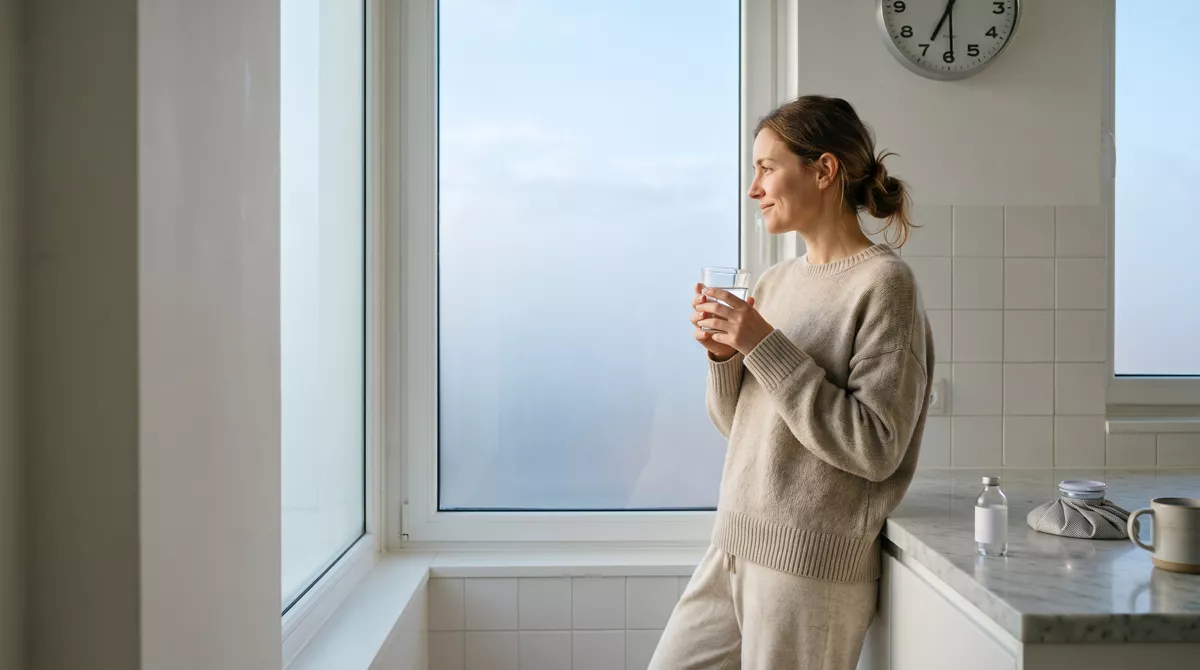
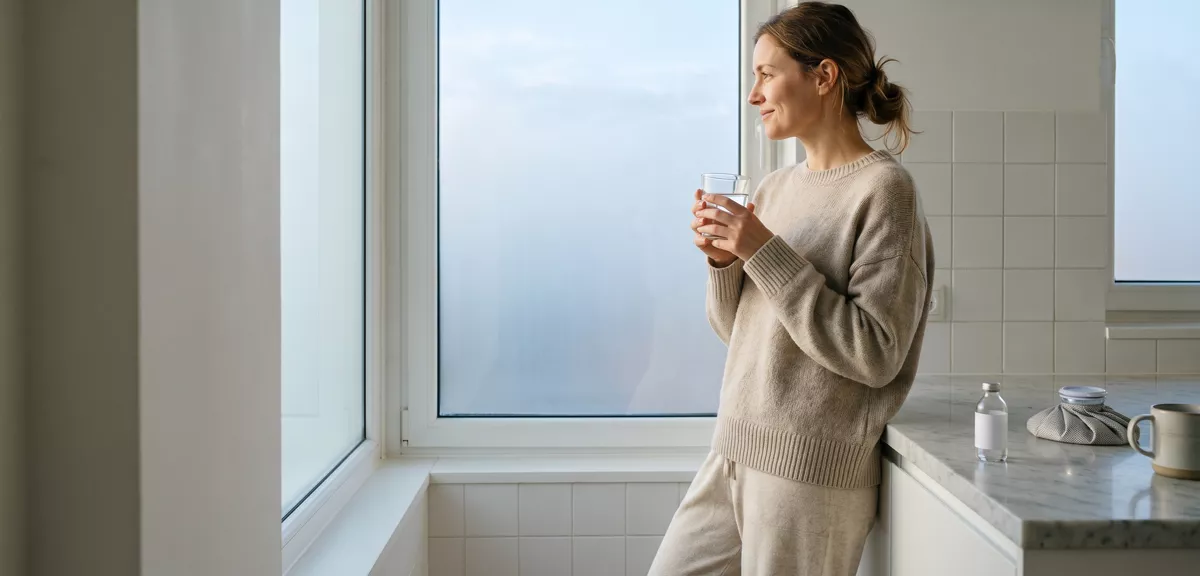
fix(home): crop the wall clock out of the hero photograph
The photo's aspect nearly matches the hero box, so object-position could
not move the clock's numerals out of frame. The top 14% of the source is
cropped at encode time instead (2400x1152 and 1200w), and the focal point
sits high so the window light and the glass stay in view.

Gates: all eleven PASS on this tree.

Claude-Session: https://claude.ai/code/session_01D5Q5Te1ja2hg4jytQNpCaS

diff --git a/client/src/index.css b/client/src/index.css
@@ -2465,7 +2465,7 @@ a.nx-biochip:hover { border-color: color-mix(in srgb, var(--nx-accent) 42%, tran
 html, body { overflow-x: hidden; overflow-x: clip; }
 .nx-phero { position: relative; min-height: min(86vh, 840px); display: flex; align-items: center; background: var(--nx-bg); overflow: hidden; }
 .nx-phero-art { position: absolute; inset: 0; }
-.nx-phero-art img { width: 100%; height: 100%; object-fit: cover; object-position: 70% 68%; display: block; animation: nx-phero-breathe 22s var(--nx-ease) infinite alternate; transform-origin: 70% 40%; }
+.nx-phero-art img { width: 100%; height: 100%; object-fit: cover; object-position: 70% 30%; display: block; animation: nx-phero-breathe 22s var(--nx-ease) infinite alternate; transform-origin: 70% 40%; }
 .nx-phero-art::after { content: ""; position: absolute; inset: 0; background: linear-gradient(90deg, rgba(247,248,250,.94) 0%, rgba(247,248,250,.8) 36%, rgba(247,248,250,.28) 58%, rgba(247,248,250,0) 74%); }
 @keyframes nx-phero-breathe { from { transform: scale(1); } to { transform: scale(1.05); } }
 .nx-phero-copy { position: relative; padding-top: clamp(4rem, 10vh, 7rem); padding-bottom: clamp(3.5rem, 9vh, 6rem); max-width: 1280px; }
@@ -2486,7 +2486,7 @@ html, body { overflow-x: hidden; overflow-x: clip; }
 @media (max-width: 860px) {
   .nx-phero { min-height: 0; display: block; }
   .nx-phero-art { position: relative; aspect-ratio: 4 / 3; max-height: 56vh; }
-  .nx-phero-art img { animation: none; object-position: 62% 62%; }
+  .nx-phero-art img { animation: none; object-position: 62% 30%; }
   .nx-phero-art::after { background: linear-gradient(180deg, rgba(247,248,250,0) 70%, rgba(247,248,250,1) 100%); }
   .nx-phero-copy { padding-top: 1.2rem; }
   .nx-phero-h1 { font-size: var(--nx-t-h1); }

diff --git a/client/src/components/PhotoHero.tsx b/client/src/components/PhotoHero.tsx
@@ -29,7 +29,7 @@ export function PhotoHero() {
           sizes="(max-width: 860px) 100vw, 100vw"
           alt=""
           width={2400}
-          height={1340}
+          height={1152}
           fetchPriority="high"
           decoding="async"
         />
